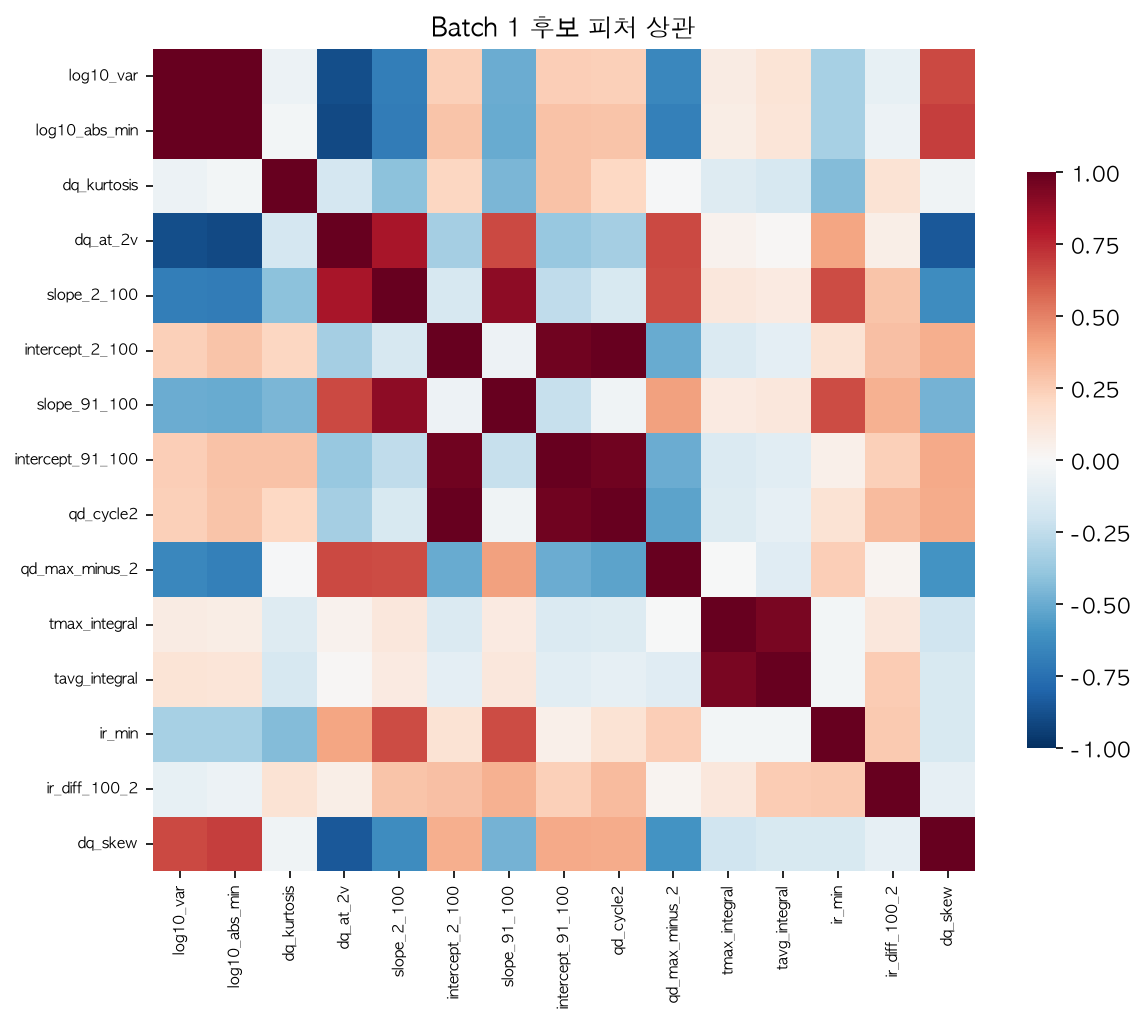
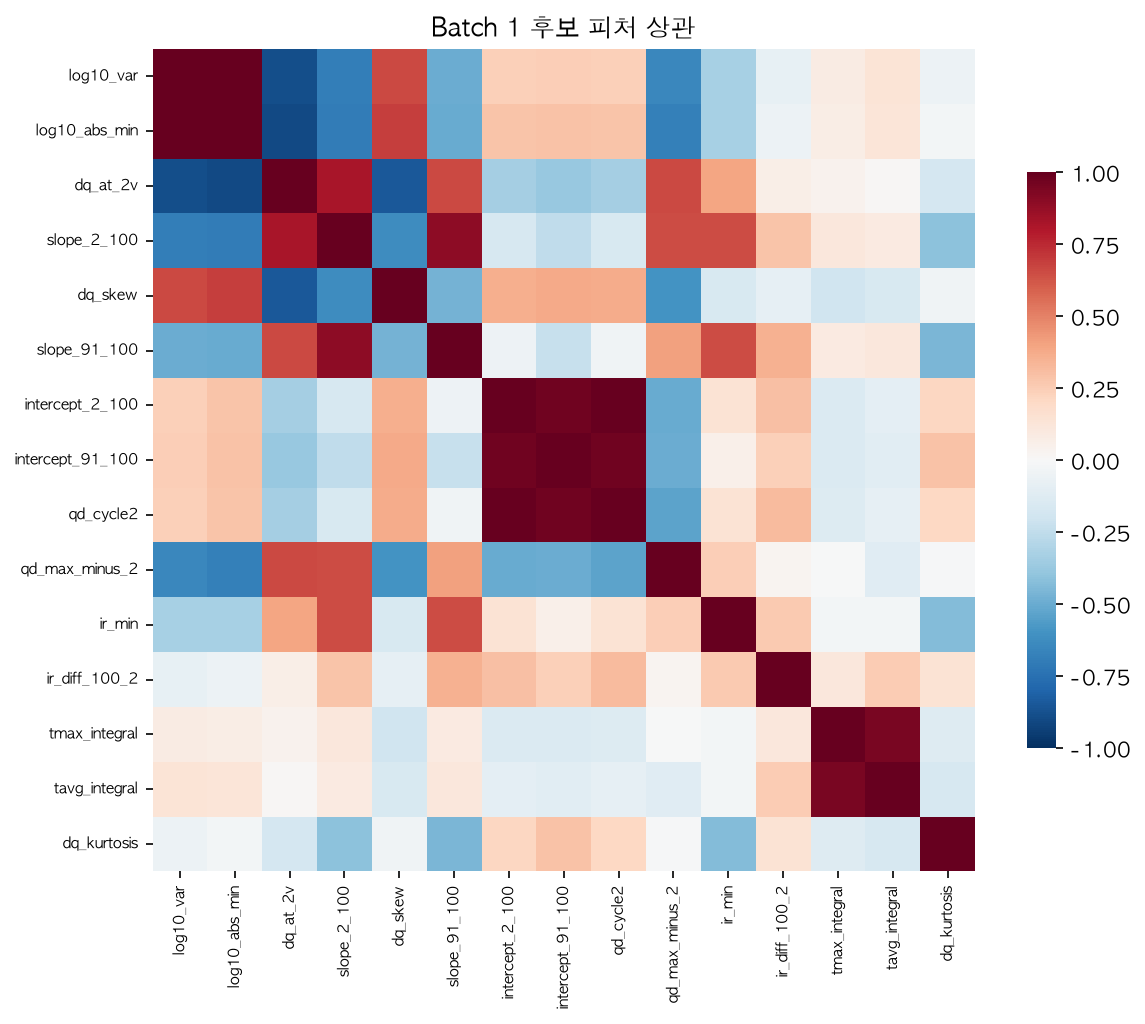
DAY2: 모델 개발 및 평가 완료
- src/features.py: 설계서 피처 정의서 구현 (log10(var(ΔQ)), qd_max_minus_2), 설계 수치 재현
- src/train.py: 정책 그룹 hold-out, GroupKFold(5), Pipeline(StandardScaler→Ridge)
- Batch 2 Test MAPE 20.259, Batch 3 24.945, Gap 리포팅과 오류 분석
- README.md: 용어, 실행 순서, 설계 대비 구현, 도메인 해석
- reports/DESIGN_TRACE.md: 설계 항목 D01~D41 추적
- notebooks/01_EDA.ipynb: 현재 피처 함수로 재실행 (출력 변화 없음)

diff --git a/src/config.py b/src/config.py
@@ -23,6 +23,17 @@ BATCH_MAT_FILES = {
 
 
 def set_korean_font() -> None:
-    """그래프 한글을 AppleGothic으로 표시하고, 마이너스 기호가 깨지지 않게 한다."""
-    plt.rcParams["font.family"] = "AppleGothic"
+    """한글 폰트를 AppleGothic, Malgun Gothic, NanumGothic 순으로 고른다.
+
+    macOS에는 AppleGothic이 있어 기존 그림과 같은 폰트를 쓴다.
+    """
+    from matplotlib import font_manager
+
+    available = {font.name for font in font_manager.fontManager.ttflist}
+    for name in ("AppleGothic", "Malgun Gothic", "NanumGothic"):
+        if name in available:
+            plt.rcParams["font.family"] = name
+            break
+    else:
+        plt.rcParams["font.family"] = "AppleGothic"
     plt.rcParams["axes.unicode_minus"] = False
